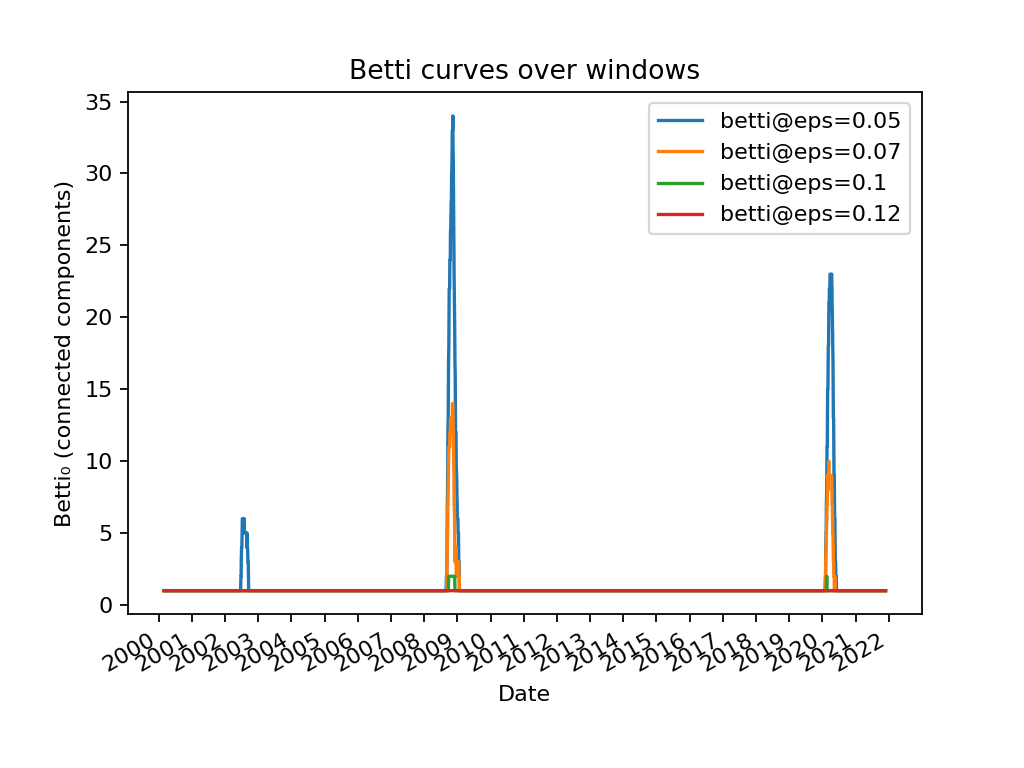
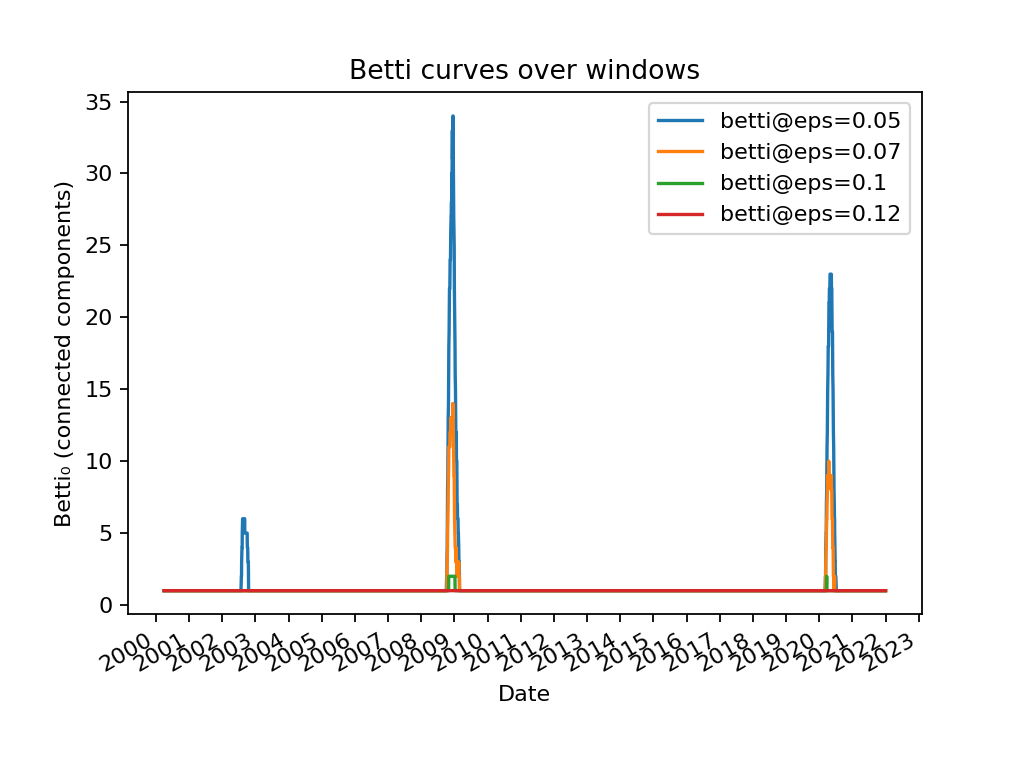
added zoomed graphs for a finer resolution to help visualize the rise in Betti numbers before the price collapses

Changed region(s): [[0.0938, 0.8125, 0.9062, 0.875], [0.4375, 0.3438, 0.4688, 0.375]]

diff --git a/scripts/run_qtda.py b/scripts/run_qtda.py
@@ -94,6 +94,14 @@ def main():
     ap.add_argument("--lp", type=int, default=2, help="L^p for pairwise distances")
     ap.add_argument("--z", type=float, default=2.0, help="Z-threshold for spike detection")
     ap.add_argument("--save-plot", action="store_true", help="Save plots to plots/ directory")
+
+    ap.add_argument("--focus-start", type=str, default=None,
+                help="Zoom: start date (YYYY-MM-DD). Example: 2019-06-01")
+    ap.add_argument("--focus-end", type=str, default=None,
+                    help="Zoom: end date (YYYY-MM-DD). Example: 2021-06-01")
+    ap.add_argument("--annotate-topk", type=int, default=0,
+                    help="Annotate top-K spikes in the Δ plot (0=off)")
+
     args = ap.parse_args()
 
     dates, prices = load_dates_and_prices(args.csv, price_pref=args.price_col)
@@ -110,11 +118,20 @@ def main():
     n_embed = X.shape[0]
     if dates is not None:
         dates_embedded = dates.iloc[args.d * (args.m - 1):].reset_index(drop=True)
-       
-        center_offsets = np.arange(0, n_embed - args.w + 1) + (args.w // 2)
-        window_dates = dates_embedded.iloc[center_offsets].to_numpy()
+
+
+        end_offsets = np.arange(args.w - 1, n_embed)                 
+        end_offsets = end_offsets[: (n_embed - args.w + 1)]       
+
+
+        window_dates = pd.to_datetime(dates_embedded.iloc[end_offsets].values)
+
+        first_dt = pd.to_datetime(window_dates[0]).date()
+        last_dt  = pd.to_datetime(window_dates[-1]).date()
+        print(f"[dates] right-aligned; first={first_dt}, last={last_dt}")
     else:
         window_dates = None
+
 
 
     curves = []
@@ -136,6 +153,106 @@ def main():
 
     print(f"[info] windows: {len(windows)}, eps grid: {args.eps}")
     print(f"[info] detected spike indices (potential crash on following window): {spike_idx.tolist()}")
+
+    if window_dates is not None and (args.focus_start or args.focus_end):
+
+        start = pd.to_datetime(args.focus_start) if args.focus_start else window_dates[0]
+        end   = pd.to_datetime(args.focus_end)   if args.focus_end   else window_dates[-1]
+
+
+        mask_full = (window_dates >= start) & (window_dates <= end)
+        mask_delta = (window_dates[1:] >= start) & (window_dates[1:] <= end)
+
+
+        if mask_full.any():
+            Path("plots").mkdir(exist_ok=True)
+
+            # betti curves zoom
+            fig, ax = plt.subplots()
+            x_zoom = window_dates[mask_full]
+            curves_zoom = curves[mask_full, :]
+            for j in range(curves_zoom.shape[1]):
+                ax.plot(x_zoom, curves_zoom[:, j], label=f"betti@eps={args.eps[j]}")
+            ax.set_title("Betti curves (zoom)")
+            ax.set_ylabel("Betti₀ (connected components)")
+            ax.set_xlabel("Date")
+            ax.legend()
+
+            # weekly ticks for visibility
+            ax.xaxis.set_major_locator(mdates.WeekdayLocator(byweekday=mdates.MO, interval=1))
+            ax.xaxis.set_major_formatter(mdates.DateFormatter('%Y-%m-%d'))  # or '%Y-W%U' for week number
+            fig.autofmt_xdate()
+
+            outz1 = "plots/betti_curves_zoom.png"
+            fig.savefig(outz1, dpi=160, bbox_inches="tight")
+            print(f"[save] {outz1}")
+
+
+            fig, ax = plt.subplots(figsize=(8.5, 4.8))
+
+            x_delta_zoom = window_dates[1:][mask_delta]
+            dist_zoom = dist[mask_delta]
+
+            # draw line + points so the series is readable
+            ax.plot(x_delta_zoom, dist_zoom, linewidth=2, marker="o", markersize=4)
+
+            # mark statistically significant spikes within the zoom (the “×” marks)
+            if spike_idx.size:
+                spike_dates_all = window_dates[1:][spike_idx]
+                in_zoom = (spike_dates_all >= start) & (spike_dates_all <= end)
+                spike_dates = spike_dates_all[in_zoom]
+                spike_vals  = dist[spike_idx][in_zoom]
+                if len(spike_dates):
+                    ax.scatter(spike_dates, spike_vals, marker="x", s=60, linewidths=2)
+
+
+            if args.annotate_topk and len(dist_zoom):
+                topk = min(args.annotate_topk, len(dist_zoom))
+                idx_local = np.argsort(dist_zoom)[-topk:] 
+                idx_local = idx_local[np.argsort(x_delta_zoom[idx_local])]  
+
+                offsets = [10, 18, 26, 14, 22]
+                for i, j in enumerate(idx_local):
+                    dt = x_delta_zoom[j]
+                    val = dist_zoom[j]
+                    ax.annotate(
+                        f"{dt.strftime('%Y-%m-%d')}\nΔ={val:.2f}",
+                        xy=(dt, val),
+                        xytext=(0, offsets[i % len(offsets)]),
+                        textcoords="offset points",
+                        ha="center",
+                        fontsize=8,
+                        bbox=dict(boxstyle="round,pad=0.2", fc="white", ec="0.7", lw=0.8),
+                        arrowprops=dict(arrowstyle="-", lw=0.8)
+                    )
+
+
+            ax.set_title(f"Pairwise L^{args.lp} deltas (zoom)", pad=10)
+            ax.set_ylabel("Δ (topology change)")
+            ax.set_xlabel("Date")
+
+            # weekly ticks mondays with compact labels
+            ax.set_xlim(start, end)
+            ax.xaxis.set_major_locator(mdates.WeekdayLocator(byweekday=mdates.MO, interval=1))
+            ax.xaxis.set_major_formatter(mdates.DateFormatter('%b %d'))
+
+
+            ax.grid(True, which="major", axis="both", alpha=0.25, linestyle="--", linewidth=0.8)
+            for spine in ["top", "right"]:
+                ax.spines[spine].set_visible(False)
+
+
+            ymin = max(0, np.nanmin(dist_zoom) - 0.05)
+            ymax = np.nanmax(dist_zoom) + 0.15
+            ax.set_ylim(ymin, ymax)
+
+            fig.autofmt_xdate(rotation=30, ha="right")
+            fig.tight_layout()
+
+            outz2 = "plots/crash_spikes_zoom.png"
+            fig.savefig(outz2, dpi=180, bbox_inches="tight")
+            print(f"[save] {outz2}")
+
 
 
     if HAVE_GUDHI and HAVE_QISKIT:
